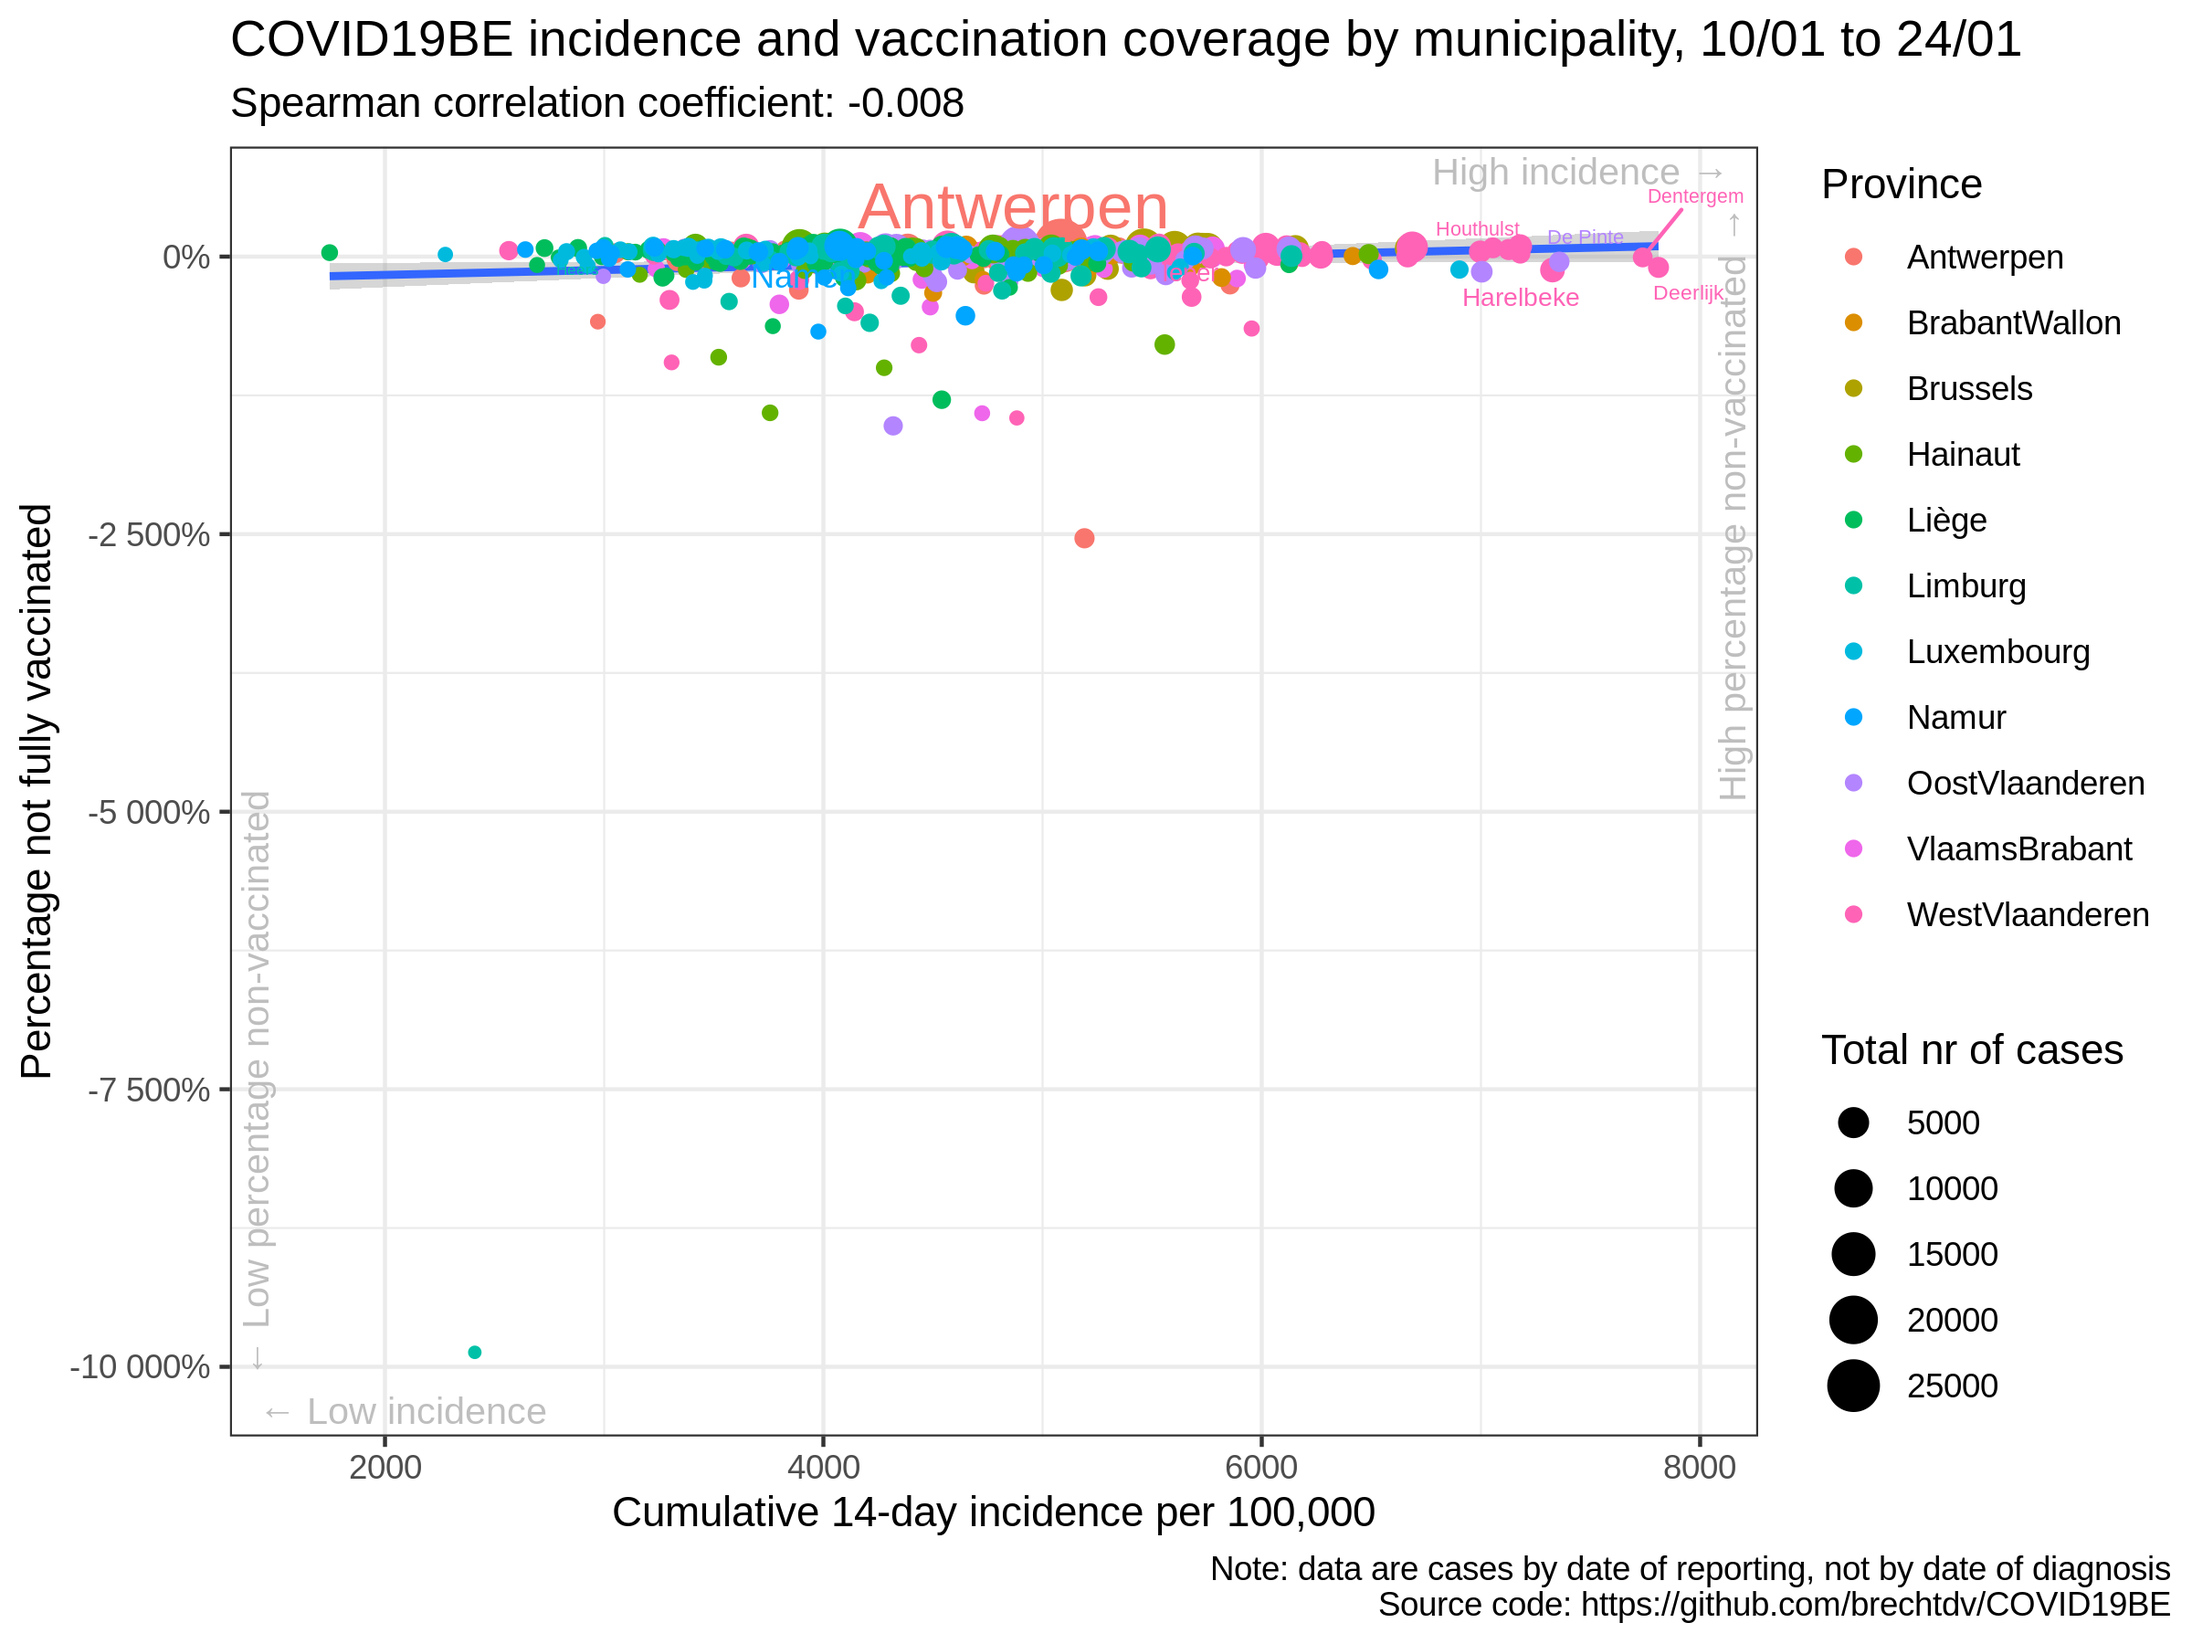
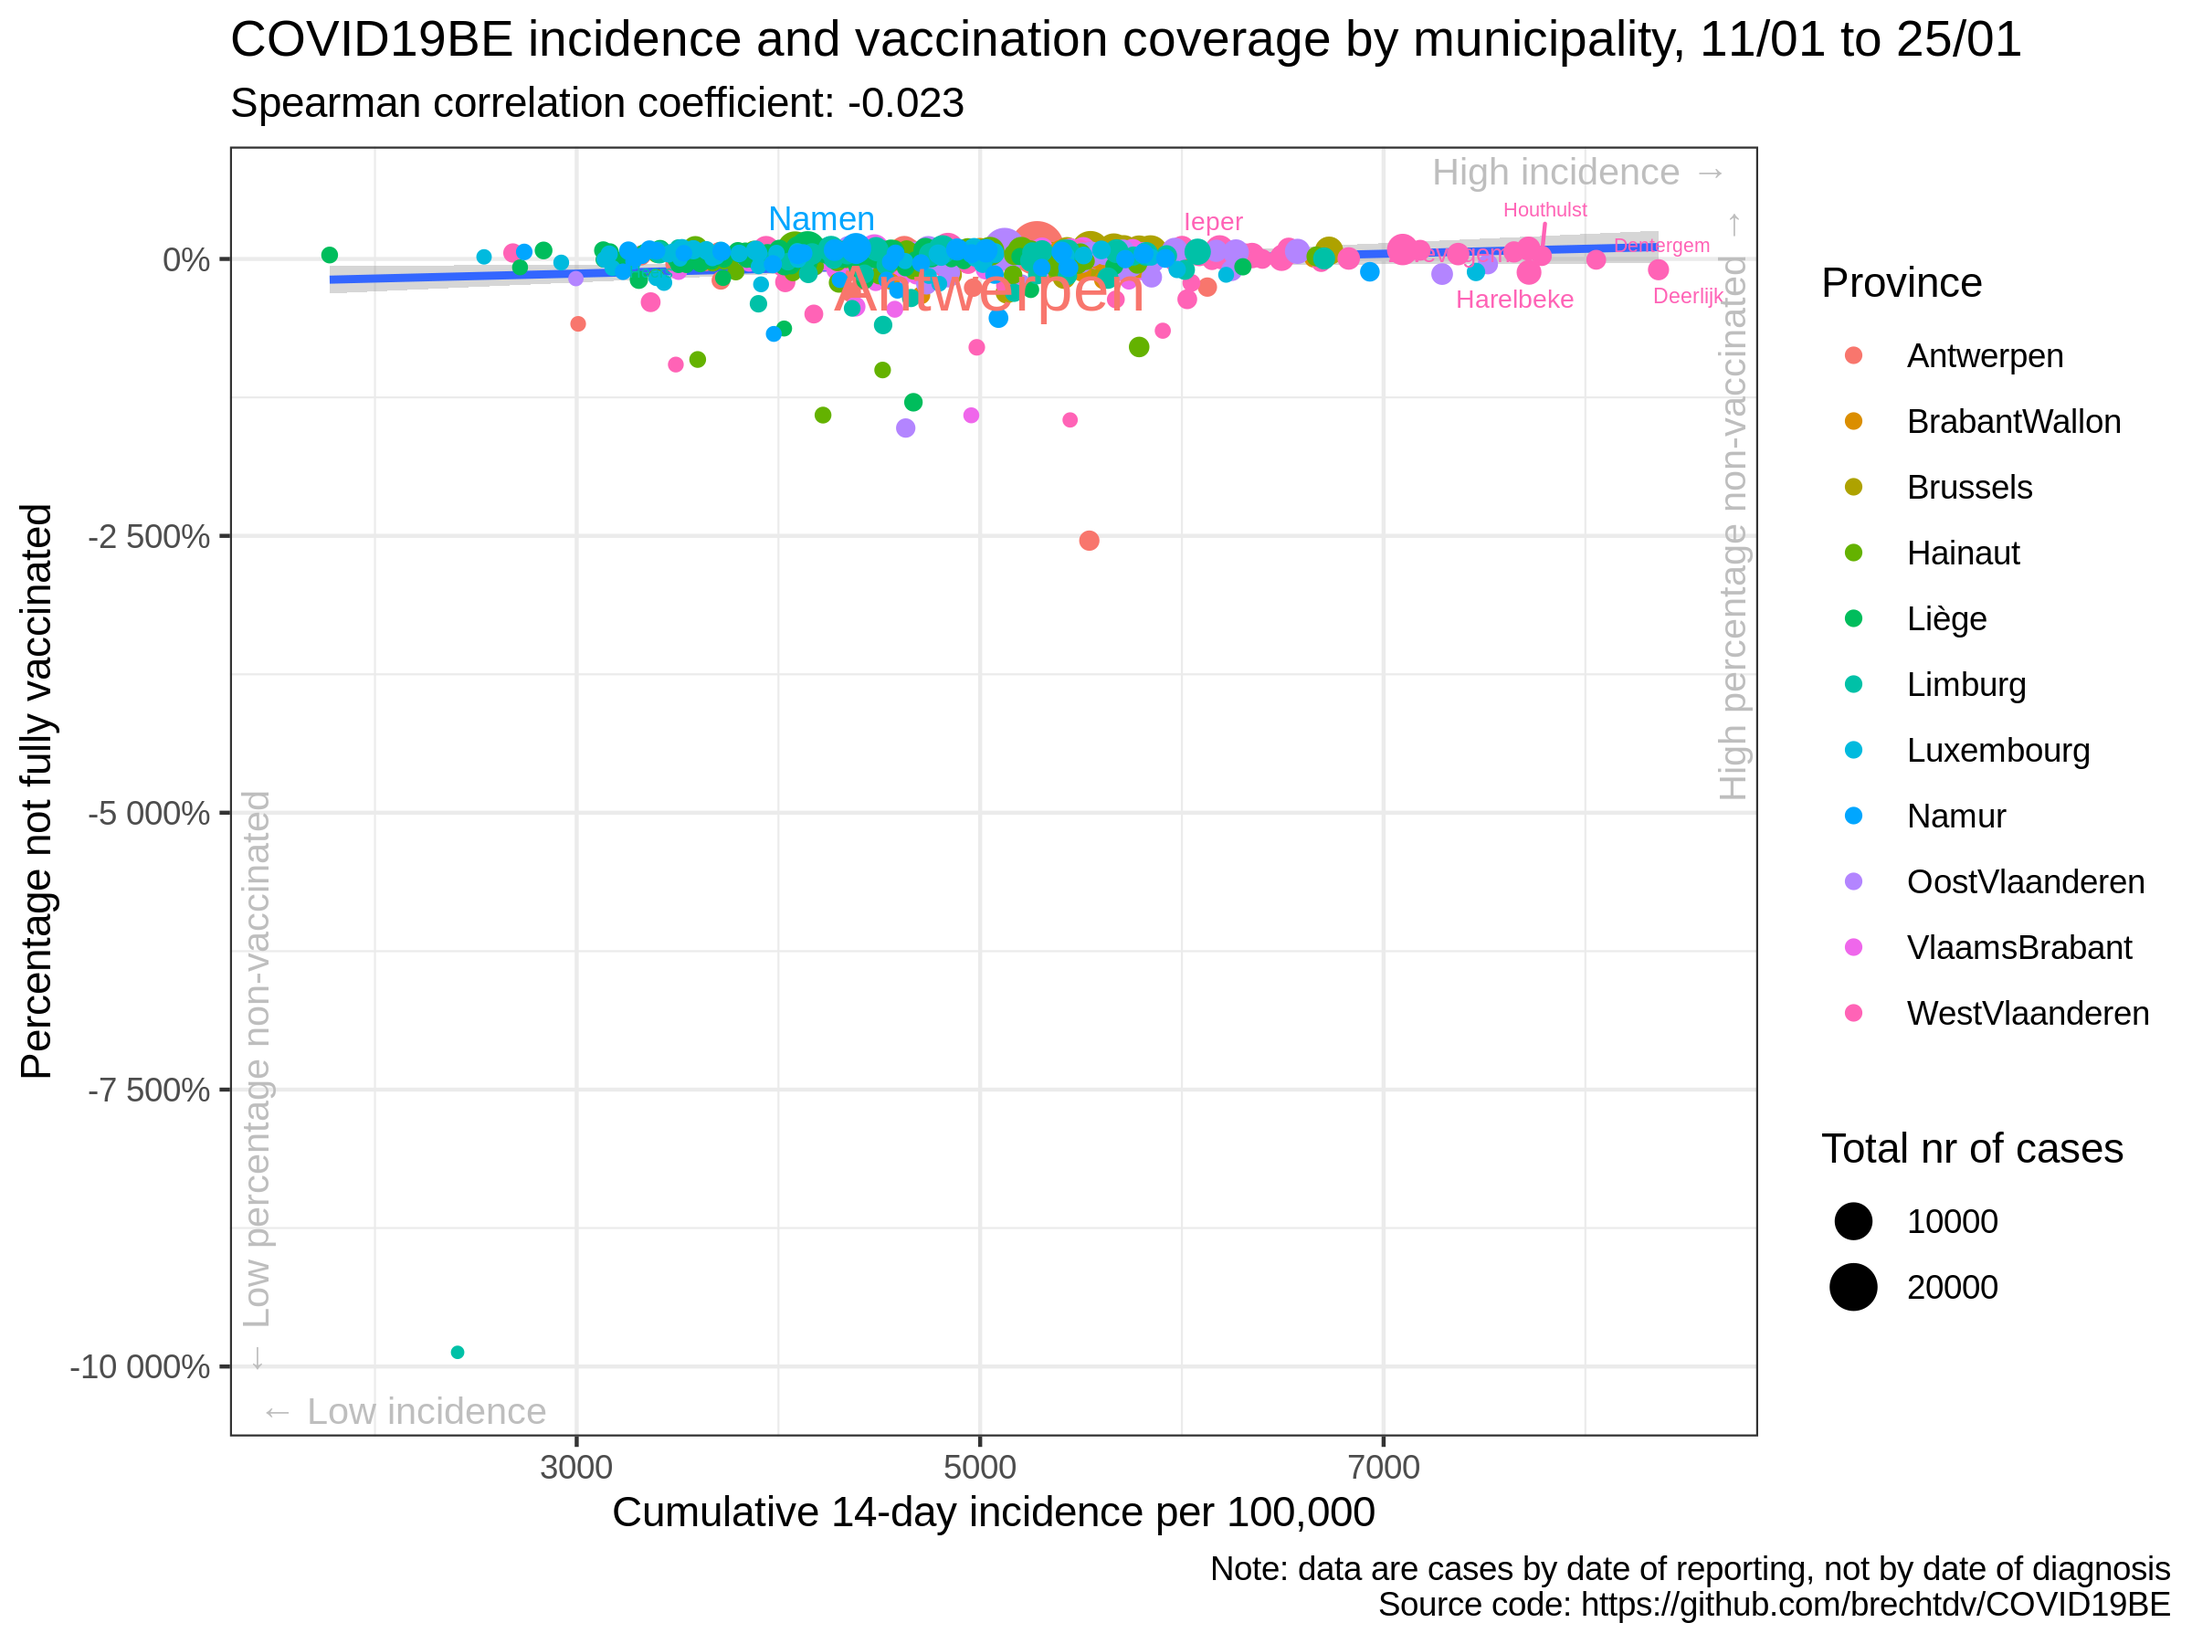
update situation

diff --git a/vaccination/README.md b/vaccination/README.md
@@ -17,35 +17,35 @@
 
 |                | estimate.rho | p.value |
 | :------------- | -----------: | ------: |
-| Antwerpen      |        0.070 |   0.568 |
-| BrabantWallon  |      \-0.310 |   0.116 |
-| Brussels       |        0.656 |   0.003 |
-| Hainaut        |        0.056 |   0.648 |
-| Liège          |      \-0.057 |   0.604 |
-| Limburg        |        0.108 |   0.495 |
-| Luxembourg     |      \-0.130 |   0.399 |
-| Namur          |      \-0.271 |   0.105 |
-| OostVlaanderen |        0.051 |   0.699 |
-| VlaamsBrabant  |        0.093 |   0.459 |
-| WestVlaanderen |        0.142 |   0.263 |
-| Belgium        |      \-0.008 |   0.841 |
+| Antwerpen      |        0.039 |   0.753 |
+| BrabantWallon  |      \-0.219 |   0.272 |
+| Brussels       |        0.588 |   0.009 |
+| Hainaut        |        0.029 |   0.814 |
+| Liège          |      \-0.081 |   0.462 |
+| Limburg        |        0.104 |   0.512 |
+| Luxembourg     |      \-0.083 |   0.590 |
+| Namur          |      \-0.264 |   0.114 |
+| OostVlaanderen |        0.020 |   0.880 |
+| VlaamsBrabant  |        0.080 |   0.526 |
+| WestVlaanderen |        0.159 |   0.210 |
+| Belgium        |      \-0.023 |   0.588 |
 
 ### Correlation cumulative incidence vs booster rate
 
 |                | estimate.rho | p.value |
 | :------------- | -----------: | ------: |
-| Antwerpen      |        0.062 |   0.615 |
-| BrabantWallon  |      \-0.304 |   0.123 |
-| Brussels       |        0.660 |   0.003 |
-| Hainaut        |        0.075 |   0.542 |
-| Liège          |      \-0.071 |   0.518 |
-| Limburg        |        0.103 |   0.514 |
-| Luxembourg     |      \-0.140 |   0.365 |
-| Namur          |      \-0.231 |   0.169 |
-| OostVlaanderen |        0.087 |   0.506 |
-| VlaamsBrabant  |        0.081 |   0.520 |
-| WestVlaanderen |        0.156 |   0.217 |
-| Belgium        |      \-0.011 |   0.797 |
+| Antwerpen      |        0.046 |   0.708 |
+| BrabantWallon  |      \-0.223 |   0.261 |
+| Brussels       |        0.582 |   0.010 |
+| Hainaut        |        0.039 |   0.747 |
+| Liège          |      \-0.090 |   0.414 |
+| Limburg        |        0.102 |   0.519 |
+| Luxembourg     |      \-0.093 |   0.545 |
+| Namur          |      \-0.243 |   0.147 |
+| OostVlaanderen |        0.032 |   0.806 |
+| VlaamsBrabant  |        0.073 |   0.561 |
+| WestVlaanderen |        0.167 |   0.188 |
+| Belgium        |      \-0.036 |   0.381 |
 
 ### Data source
 
